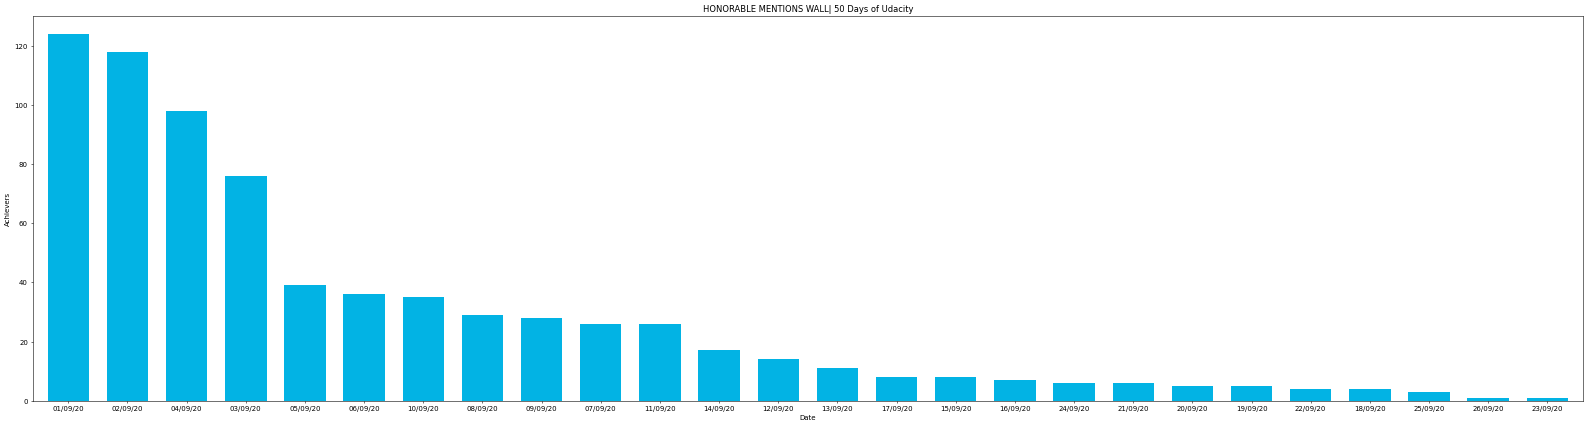
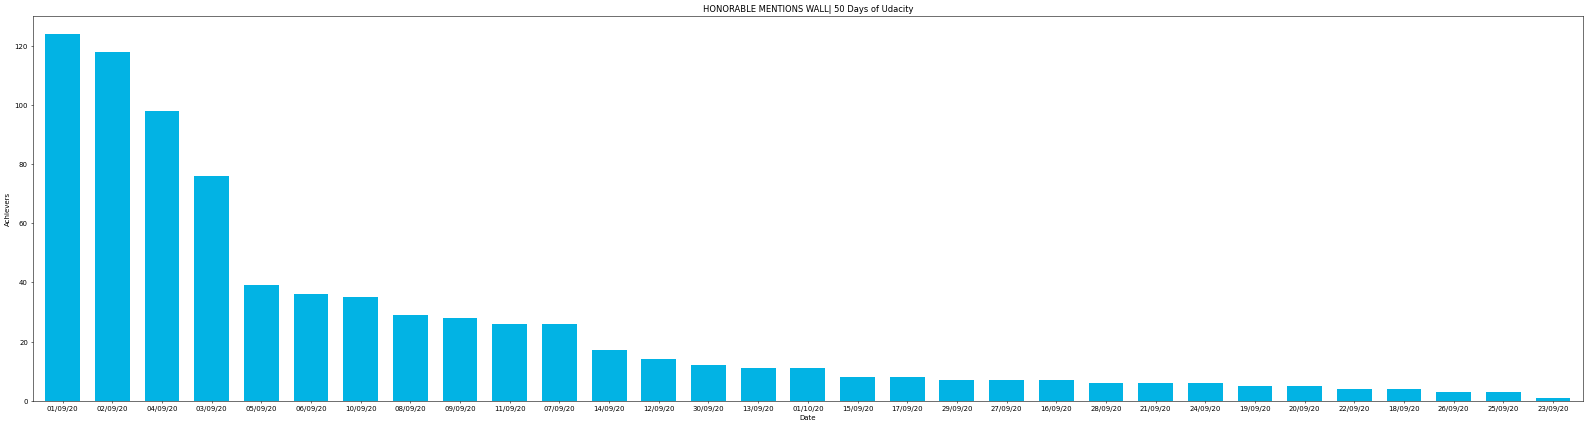
feat: final #50daysofudacityachievers

Changed region(s): [[0.0309, 0.0915, 0.988, 0.9765], [0.8028, 0.885, 0.8336, 0.9155]]

diff --git a/halloffame/scrap_achievers.py b/halloffame/scrap_achievers.py
@@ -76,8 +76,8 @@ def get_data():
     df.to_csv('achievers.csv', index=False)
     return df
 
-df = pd.read_csv('achievers.csv')
-# df = get_data()
+# df = pd.read_csv('achievers.csv')
+df = get_data()
 print(df.head())
 
 print(df.shape)
@@ -99,15 +99,15 @@ df = df.drop(index=duplicateRowsDF.index)
 print(df.shape)
 df = df.sample(frac = 1)
 
-arr = "["
-for index, row in df.iterrows():
-    # arr += '"{}" ,'.format("Congratulations !! {} on completing the #50daysofUdacity challenge".format(row['slack_name']))
-    arr += '"{}" ,'.format(row['slack_name'])
-
-with open('spam.tc', 'a+') as file:
-    file.write(arr)
-
-exit(0)
+# arr = "["
+# for index, row in df.iterrows():
+#     # arr += '"{}" ,'.format("Congratulations !! {} on completing the #50daysofUdacity challenge".format(row['slack_name']))
+#     arr += '"{}" ,'.format(row['slack_name'])
+#
+# with open('spam.tc', 'a+') as file:
+#     file.write(arr)
+#
+# exit(0)
 
 df = df['date'].value_counts()
 
